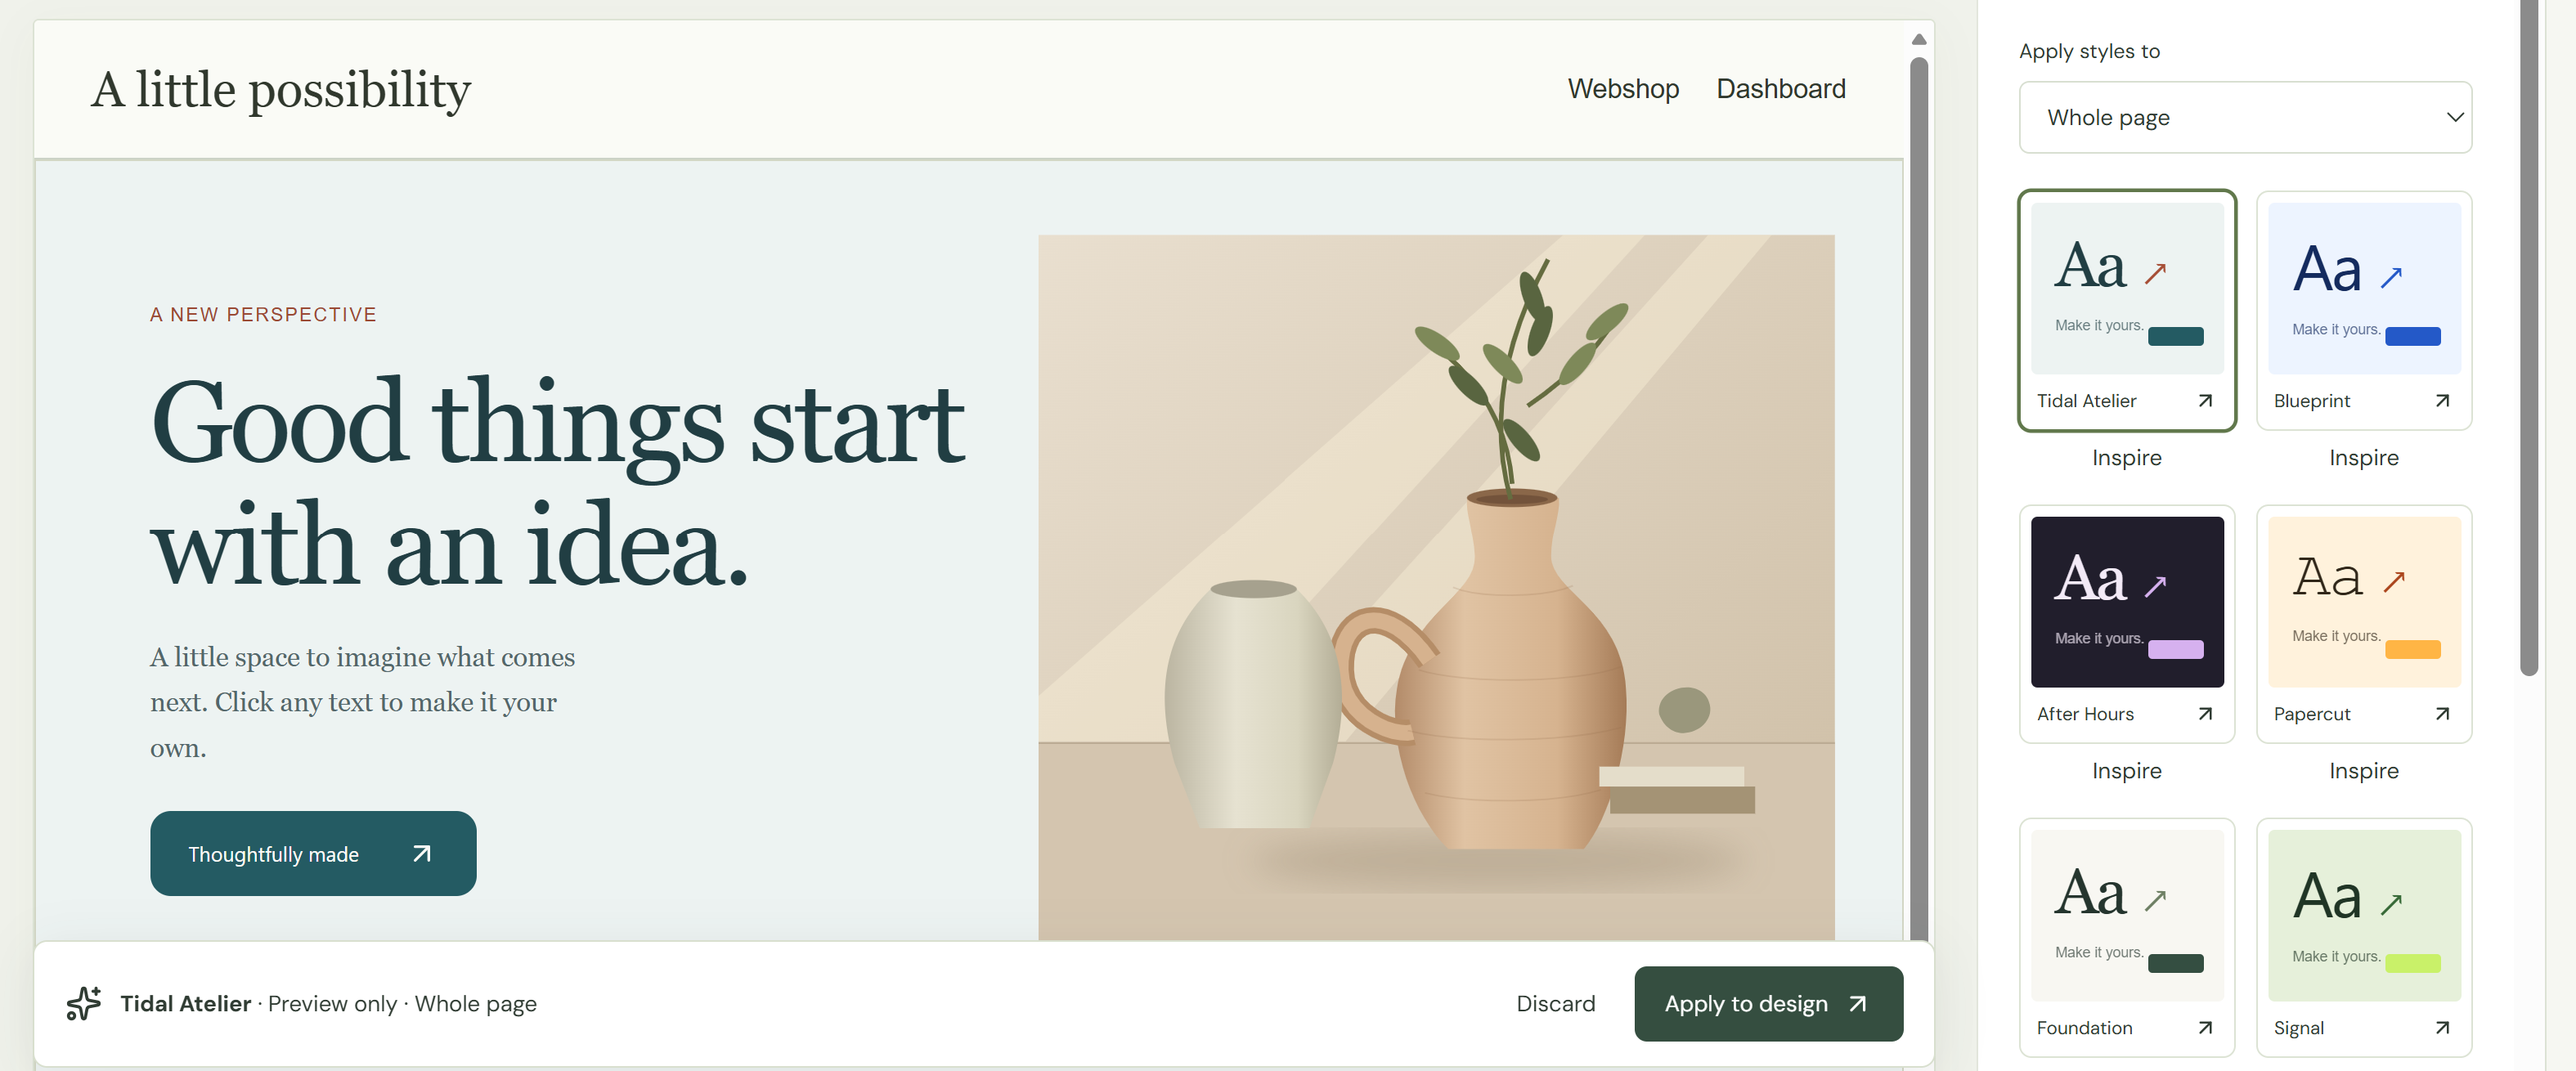
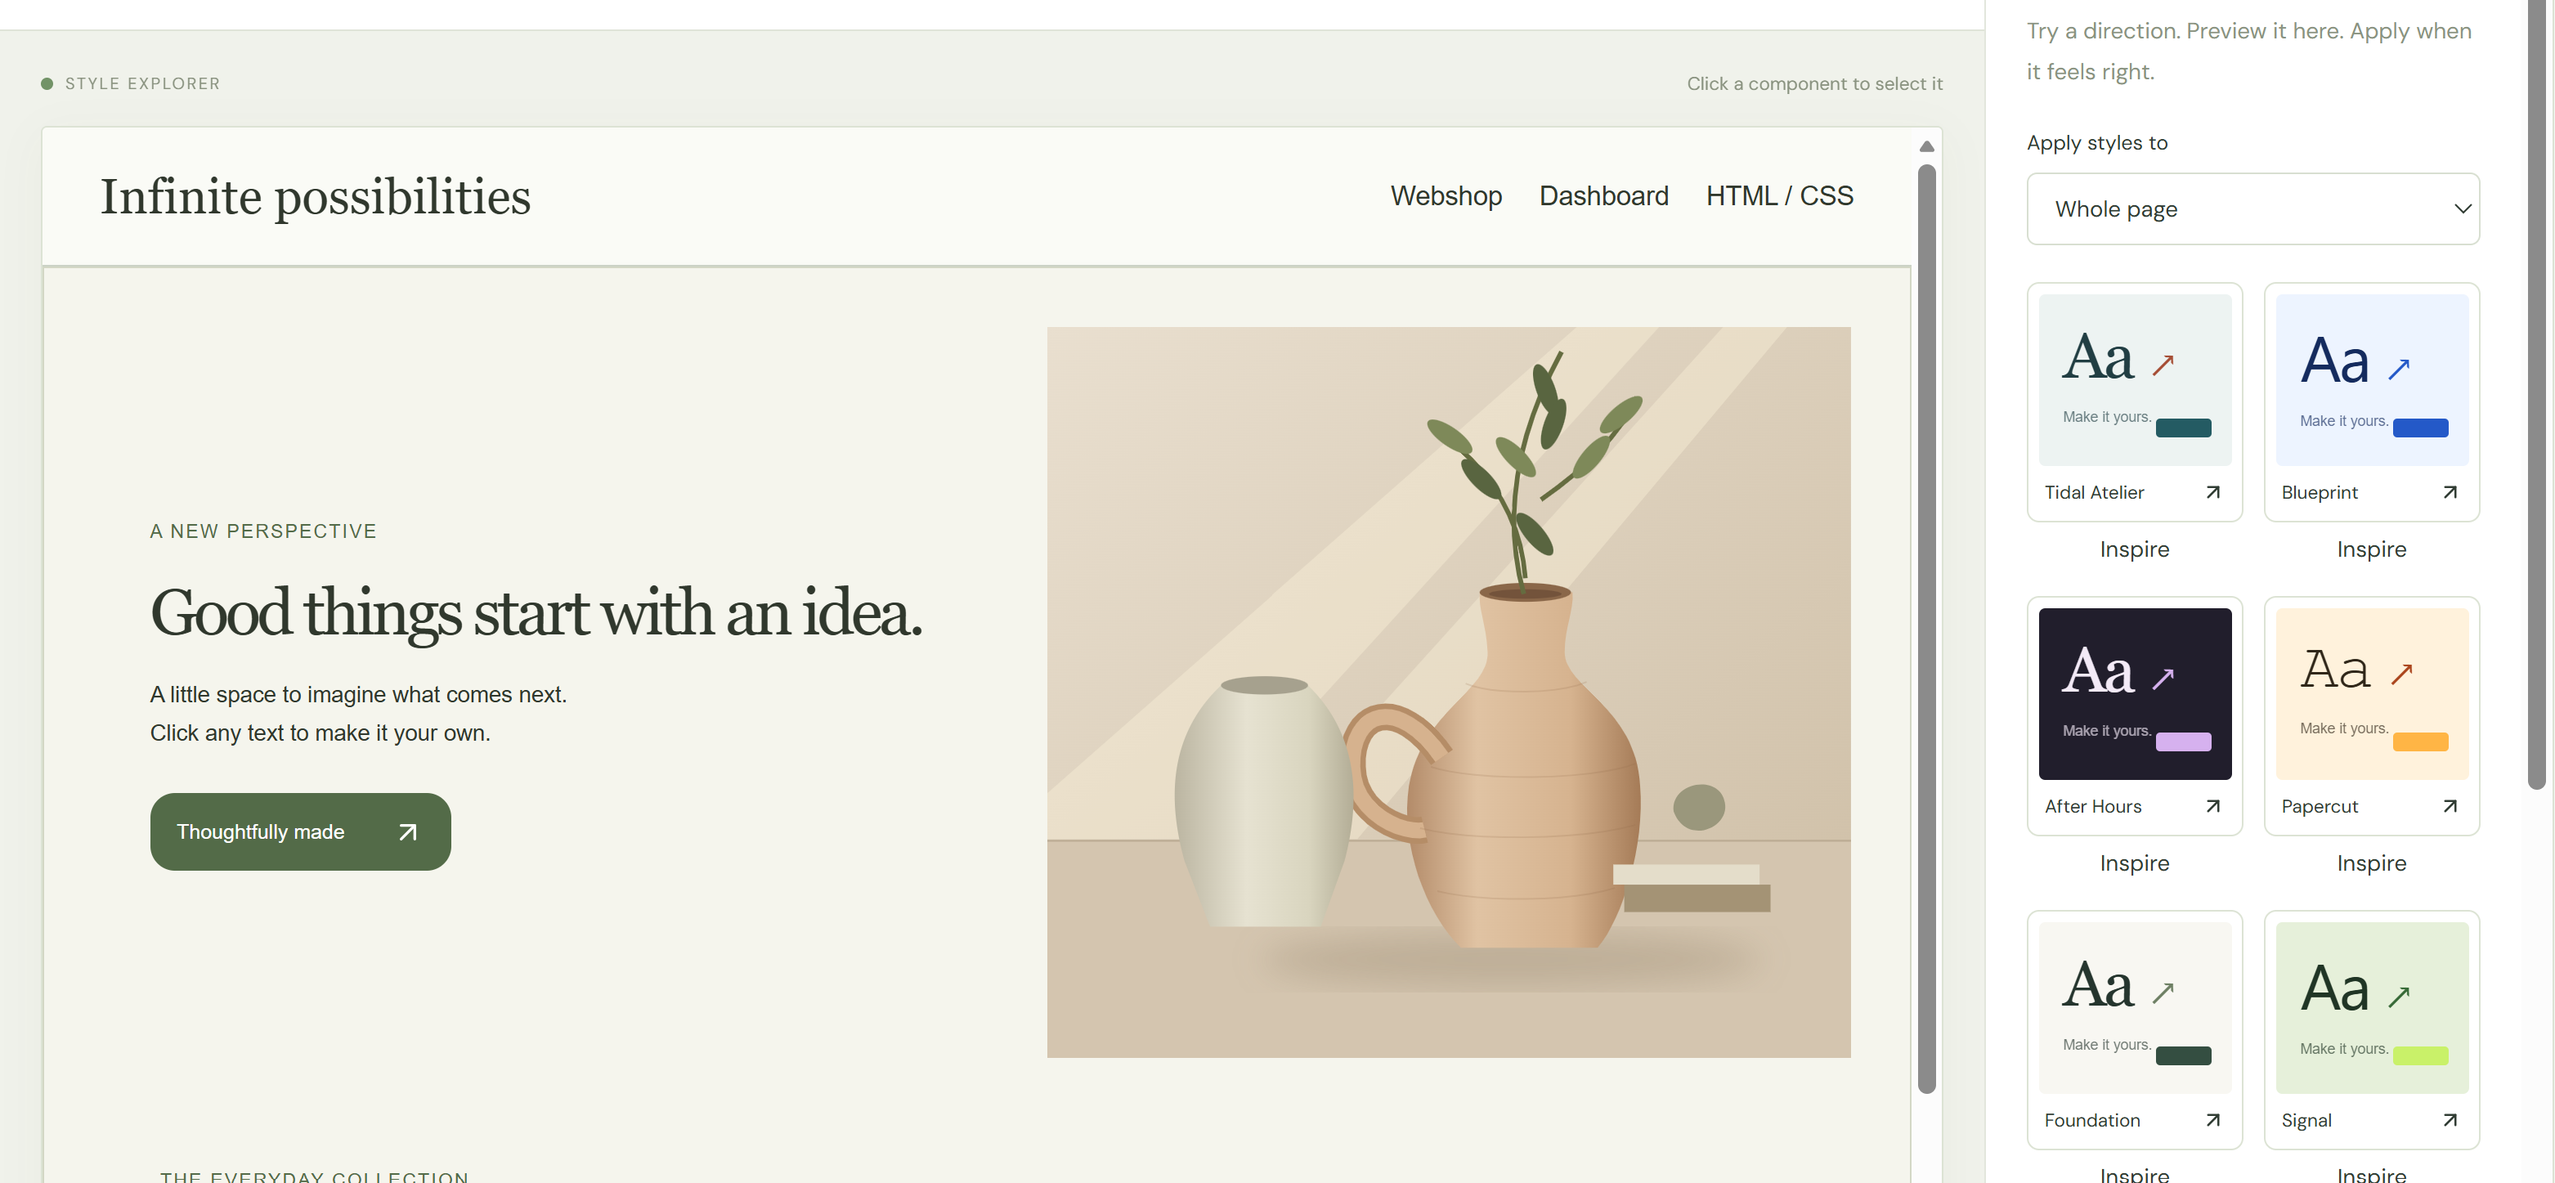
Frontender - improvements

diff --git a/src/components/Projects.tsx b/src/components/Projects.tsx
@@ -83,9 +83,9 @@ const projects: Project[] = [
     title: 'Frontender',
     shortDesc: 'Build linked website prototypes from templates, guide AI style generation, and share or export the result.',
     longDesc: [
-      'As a user, you can start in Formlane to define the content and structure of your website. Choose a template for a blog, webshop, dashboard, or contact form, or build linked pages from editable blocks. Edit text, add products or table rows, and duplicate or reorder sections as the layout takes shape. Start from a blank page to bring your own HTML and CSS, or select text and tables from a public webpage or Markdown and add them to an existing page.',
+      'As a user, you can start by defining the content and structure of your website. Choose a template for a blog, webshop, dashboard, or contact form, or build linked pages from editable blocks. Edit text, add products or table rows, and duplicate or reorder sections as the layout takes shape. Start from a blank page to bring your own HTML and CSS, or select text and tables from a public webpage or Markdown and add them to an existing page.',
       'While shaping the content, use Explore with AI to describe a change to the current page or a selected section. The text assistant uses Gemini 3.5 Flash-Lite by default and prepares a proposal for you to review and apply. For a spoken dialogue, open Talk and ask Gemini 3.8 Live Extended Thinking how to use a feature or carry out a step in Frontender. You make the edits yourself while the voice assistant guides you.',
-      'Next, refine the design in Styler. Try a predefined theme, adjust the shared palette, heading font, and corner radius, or preview colors imported from another website. Work on a whole page or select a single component. The CSS inspector shows the values the browser applies, so you can fine-tune a declaration and lock the values you want to keep. Choose an inspiration style and let Google’s Antigravity preview agent (antigravity-preview-09-2026) generate variations within those constraints. A style took about 20 seconds to generate in local checks with the live provider. Preview a result before applying it, or save it as a preset to reuse later.',
+      'Next, refine the design. Try a predefined theme, adjust the shared palette, heading font, and corner radius, or preview colors imported from another website. Work on a whole page or select a single component. The CSS inspector shows the values the browser applies, so you can fine-tune a declaration and lock the values you want to keep. Choose an inspiration style and let Google’s Antigravity preview agent (antigravity-preview-09-2026) generate variations within those constraints. A style takes about 20 seconds to generate. Preview a result before applying it, or save it as a preset to reuse later.',
       'If a design calls for an image border, open Border Image. Start with a sample or upload an image, crop the area you want, then adjust how the border is sliced, sized, and repeated. The same Antigravity agent can answer questions about the current settings, suggest combinations, or analyze a sketch for a possible frame crop. Preview the border on the chosen page or component before applying it.',
       'Frontender saves your work automatically in the browser. Download an editable project file as a backup and import it later to restore the workspace or add its pages to another project. To share the result, send a view-only snapshot link, save the current page as a PDF handout, or export the linked prototype as a ZIP with HTML, CSS, and JavaScript.',
     ].join('\n\n'),
